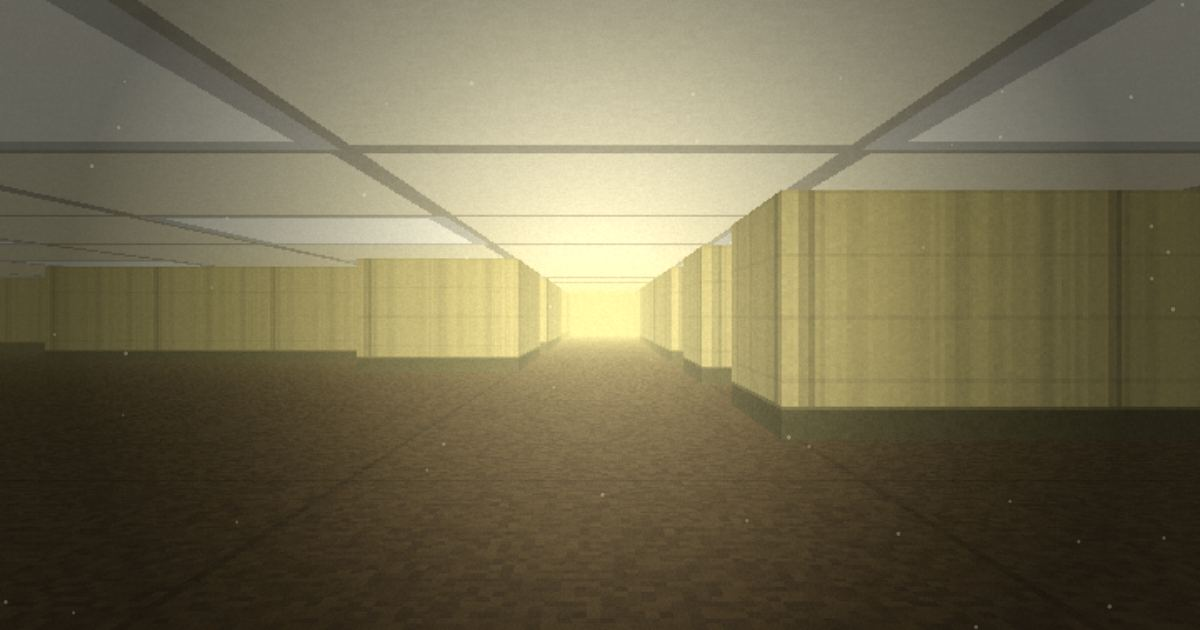
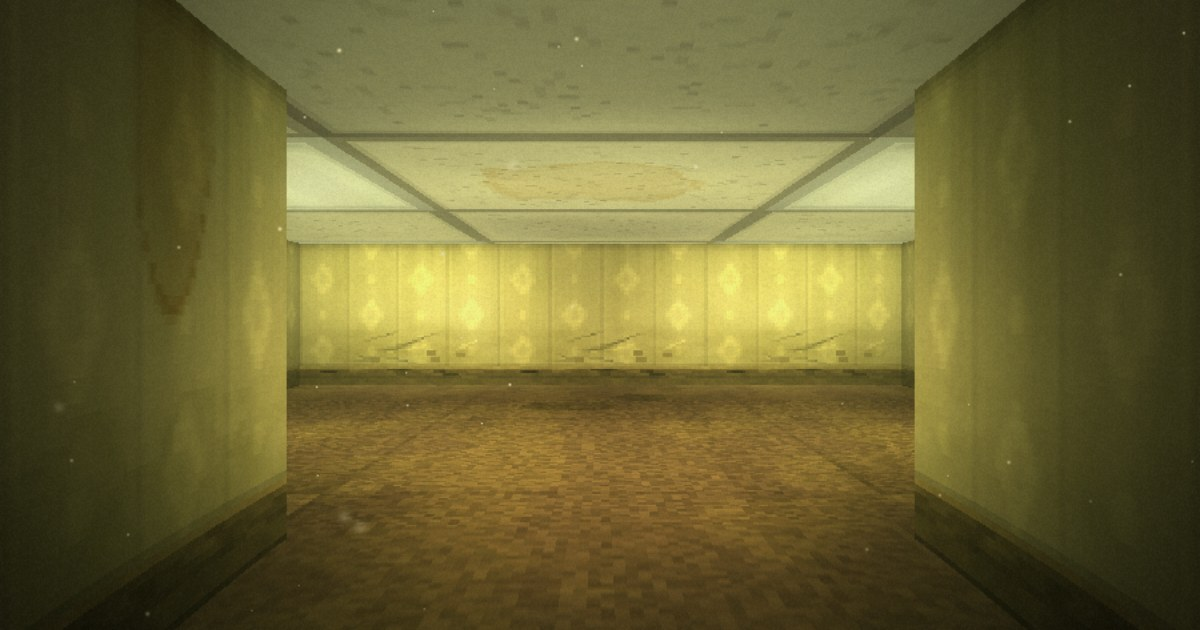
site: the landing frame and the old share images show the new engine

diff --git a/index.html b/index.html
@@ -708,7 +708,7 @@
     <h2 id="key-h">The map is the proof. Everything else is a way in.</h2>
     <p class="lede">Something that belongs to the maze has been pinned to real ground. Follow it any of these ways — every one works from home.</p>
     <figure class="frame">
-      <img src="og.jpg" width="1200" height="630" decoding="async" alt="Yellow walls under a drop ceiling, running into light — level 0, drawn by the game's engine.">
+      <img src="og/frame-v2.jpg" width="1200" height="630" decoding="async" alt="A short yellow hall under a drop ceiling, opening on a brighter room — level 0, drawn by the game's engine.">
       <figcaption>recovered frame · level 0 · drawn by the engine <span class="nw">· <a href="play/">play it&nbsp;▸</a></span></figcaption>
     </figure>
     <nav aria-label="ways in"><ul>
